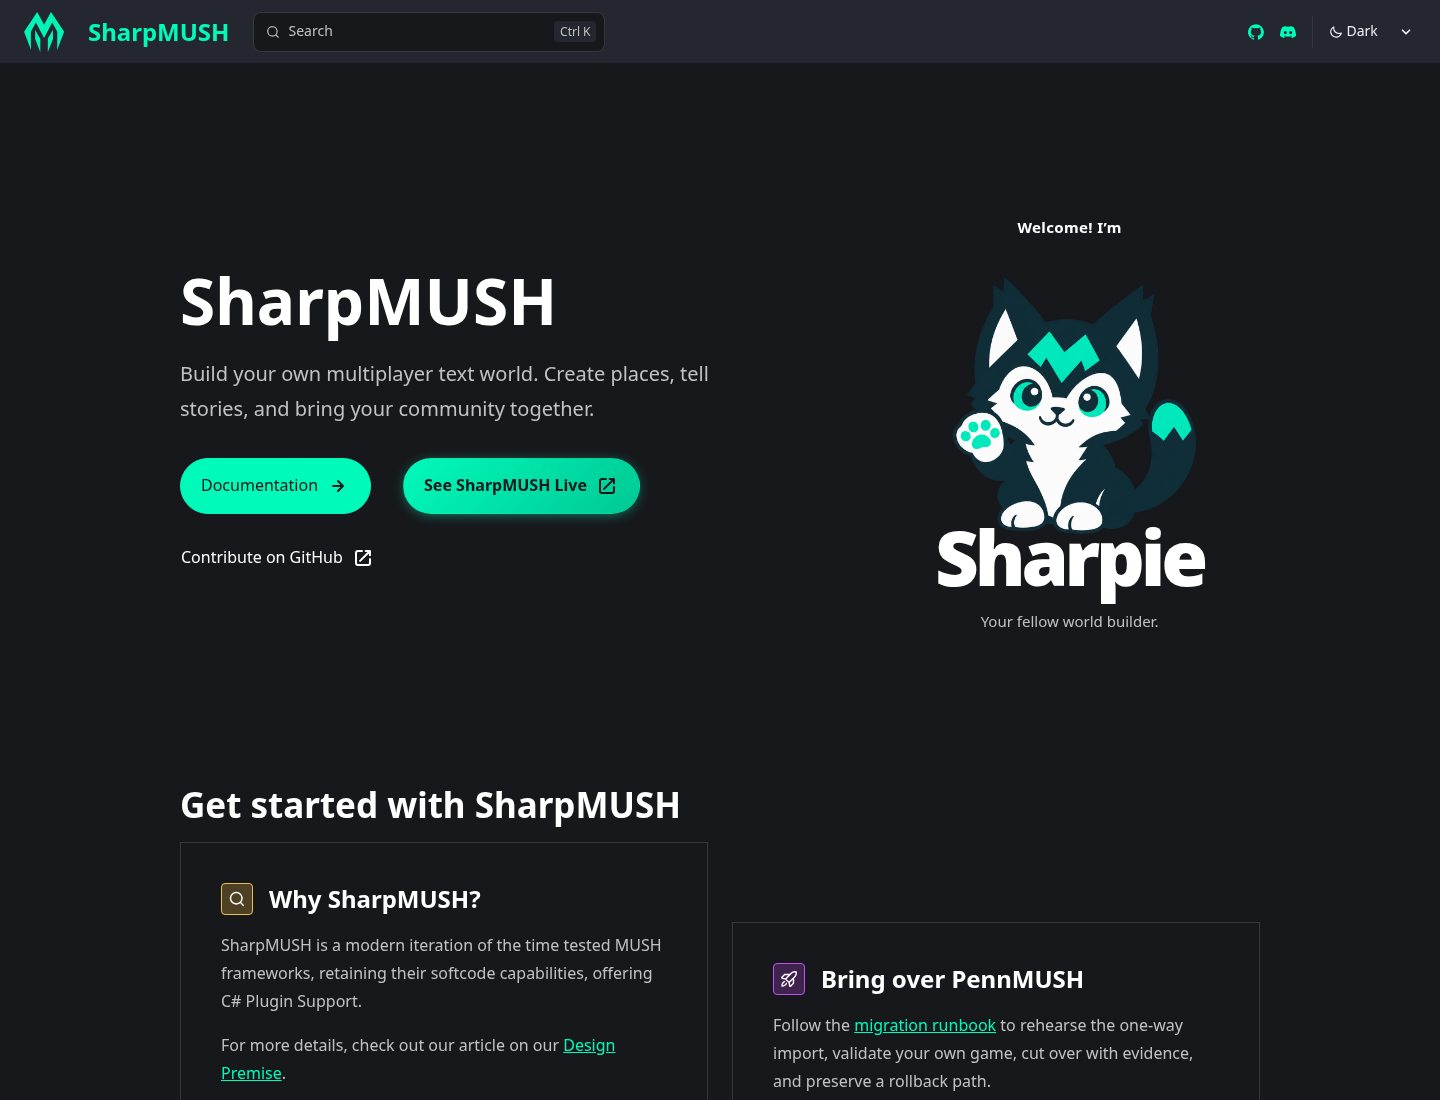
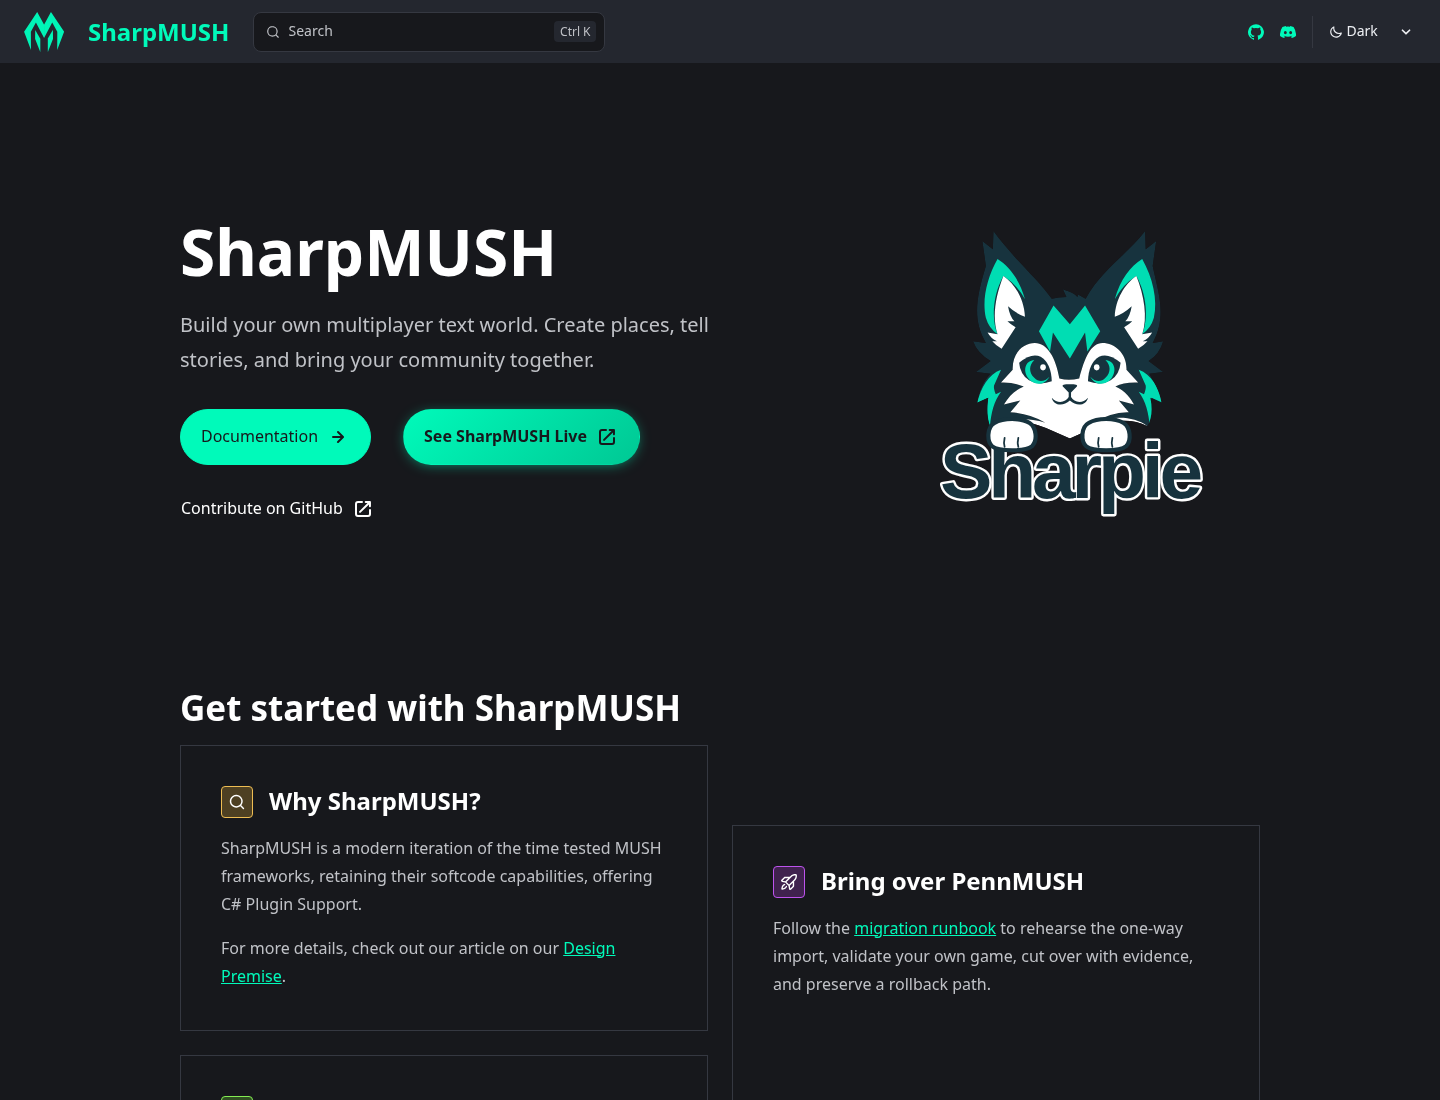
docs: introduce Sharpie with a clean vector name lockup

diff --git a/assets/branding/sharpie/marketing/share-card.html b/assets/branding/sharpie/marketing/share-card.html
@@ -1,3 +1,3 @@
 <!doctype html><html lang="en"><meta charset="utf-8"><title>SharpMUSH Docs social preview source</title><style>
-*{box-sizing:border-box}body{margin:0;background:white;color:#17333e;font-family:Arial,Helvetica,sans-serif}.card{width:1280px;height:640px;position:relative;padding:58px 62px 55px 68px;display:grid;grid-template-columns:650px 1fr;gap:10px;border-bottom:16px solid #00ddb3;overflow:hidden}.copy{display:flex;flex-direction:column;position:relative;z-index:1}.brand{font-size:32px;line-height:1.2;font-weight:700;margin:0 0 40px}.brand::before{content:"";display:inline-block;vertical-align:middle;width:12px;height:29px;margin-right:14px;background:#00ddb3}h1{font-size:66px;line-height:1.05;letter-spacing:-2px;margin:0 0 26px;font-weight:750}p{margin:0;font-size:22px;line-height:1.4}.domain{font-size:19px;margin-top:auto;padding-top:20px}.art{align-self:center;width:100%;height:475px;object-fit:contain;display:block}
-</style><main class="card"><section class="copy"><p class="brand">SharpMUSH Docs</p><h1>Guides for your<br>next text world.</h1><p>Hosting, softcode, packages and the web portal.</p><p class="domain">sharpmush.com</p></section><img class="art" src="../../../../src/assets/sharpie/sharpie-share-guide.png" alt="" /></main></html>
+*{box-sizing:border-box}body{margin:0;background:white;color:#17333e;font-family:Arial,Helvetica,sans-serif}.card{width:1280px;height:640px;position:relative;padding:58px 62px 55px 68px;display:grid;grid-template-columns:650px 1fr;gap:10px;border-bottom:16px solid #00ddb3;overflow:hidden}.copy{display:flex;flex-direction:column;position:relative;z-index:1}.brand{font-size:32px;line-height:1.2;font-weight:700;margin:0 0 40px}.brand-logo{width:36px;height:36px;object-fit:contain;vertical-align:middle;margin-right:14px}h1{font-size:66px;line-height:1.05;letter-spacing:-2px;margin:0 0 26px;font-weight:750}p{margin:0;font-size:22px;line-height:1.4}.domain{font-size:19px;margin-top:auto;padding-top:20px}.art{align-self:center;width:100%;height:475px;object-fit:contain;display:block}
+</style><main class="card"><section class="copy"><p class="brand"><img class="brand-logo" src="sharpmush-logo.svg" alt="" />SharpMUSH Docs</p><h1>Guides for your<br>next text world.</h1><p>Hosting, softcode, packages and the web portal.</p><p class="domain">sharpmush.com</p></section><img class="art" src="../../../../src/assets/sharpie/sharpie-share-guide.png" alt="" /></main></html>

diff --git a/src/styles/sharpie-welcome.css b/src/styles/sharpie-welcome.css
@@ -1,55 +1,5 @@
-.hero .sharpie-welcome {
-    display: flex;
-    flex-direction: column;
-    align-items: center;
-    width: 100%;
-    text-align: center;
-    color: var(--sl-color-white);
-  }
-
-  .sharpie-welcome__greeting {
-    font-size: 0.9375rem;
-    font-weight: 600;
-    letter-spacing: 0.025em;
-    margin-bottom: -1rem;
-  }
-
-  .sharpie-welcome__perch {
-    width: 100%;
-    max-width: 22rem;
-    isolation: isolate;
-  }
-
-  .sharpie-welcome__perch img {
-    display: block;
-    position: relative;
-    z-index: 1;
-    width: 100%;
-    height: auto;
-    margin: 0;
-  }
-
-  .sharpie-welcome__name {
-    display: block;
-    position: relative;
-    margin-top: -0.75em;
-    font-size: clamp(3.2rem, 7vw, 4.75rem);
-    font-weight: 800;
-    letter-spacing: -0.055em;
-    line-height: 1;
-  }
-
-  .sharpie-welcome__caption {
-    margin-top: 0.8rem;
-    color: var(--sl-color-gray-2);
-    font-size: 0.9375rem;
-  }
-
-
+.hero .sharpie-welcome { width: 100%; max-width: 25rem; }
+.hero .sharpie-welcome img { display: block; width: 100%; height: auto; margin: 0; }
 @media (max-width: 49.99rem) {
-  .hero:has(.sharpie-welcome) > .hero-html {
-    order: 2;
-    width: min(75%, 17rem);
-    margin-top: 1rem;
-  }
+  .hero:has(.sharpie-welcome) > .hero-html { order: 2; width: min(85%, 20rem); margin-top: 1rem; }
 }

diff --git a/public/sharpie/README.md b/public/sharpie/README.md
@@ -1,11 +1,3 @@
-# Homepage welcome nameplate
+# Sharpie welcome lockup
 
-`sharpie-welcome-nameplate.webp` is a byte-identical copy of the approved
-`src/assets/sharpie/sharpie-welcome.webp`. Starlight's `hero.image.html` supports
-live typography but does not resolve Astro image imports, so the public copy
-supports the accessible HTML composition without a site-wide Hero override.
-
-The Sharpie name, greeting and caption remain live selectable text, adapting to
-light and dark themes. This illustration is still used only on the homepage.
-Source, generation and palette provenance remain in
-`src/assets/sharpie/provenance.json`; no artwork or alpha normalization was used.
+`sharpie-welcome-perch.svg` is an editable vector composition of the approved Sharpie primary head, two consistent rounded white paws, and live SVG lettering. The paws overlap the lettering to introduce Sharpie visually. It uses ink #17333E, mint #00DDB3 and pure white, with no gradients, filters or raster matting. The original approved head master is preserved unchanged in SharpMUSH assets. Keep the complete viewBox and accessible title/description. The canonical SharpMUSH M remains the product mark.

diff --git a/assets/branding/sharpie/marketing/README.md b/assets/branding/sharpie/marketing/README.md
@@ -5,3 +5,5 @@
 Palette authority: mint green `#00DDB3`, ink `#17333E`, white. Keep flat mascot fills, rounded white hind paws and complete silhouettes. Do not use palette normalization. The `.provenance.json` files record generation sources and export checks.
 
 The generated share image is published at `/social/sharpie-docs.png`; Starlight's configured head supplies the absolute production URL, image dimensions and alternate text for Open Graph and Twitter. Per-page titles and descriptions remain Starlight's normal values. On-page Sharpie art is unchanged.
+
+The original SharpMUSH M remains the primary brand identifier. `sharpmush-logo.svg` is an unchanged copy of the repository’s canonical logo used in the share-card source. Sharpie is a supporting mascot, not a replacement for the M.
